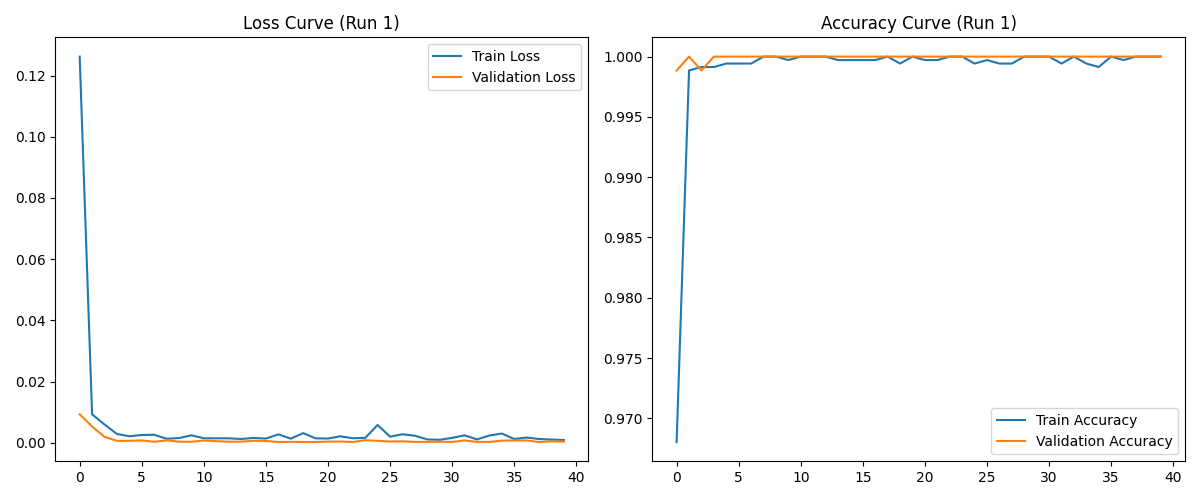
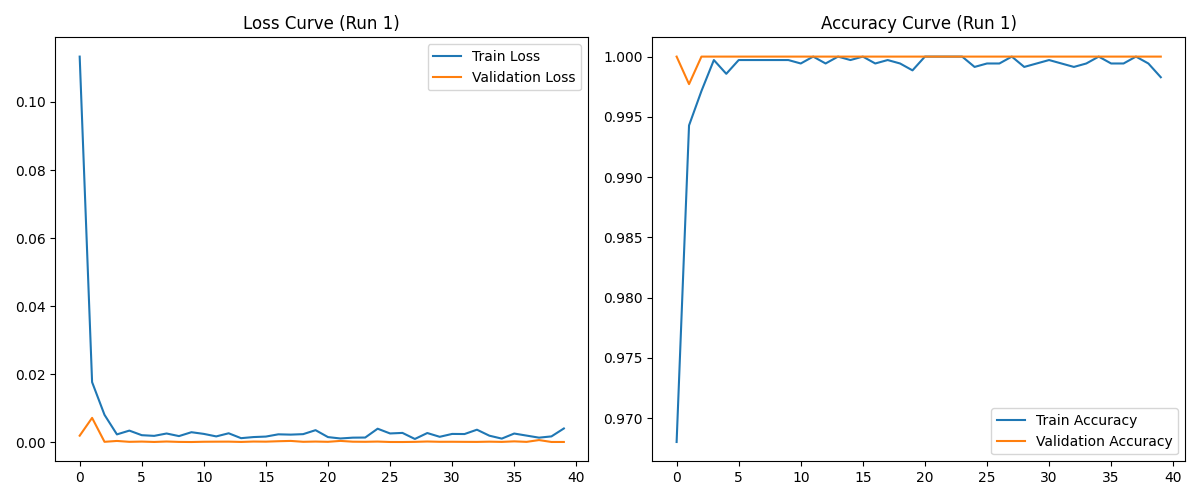
update

diff --git a/Self-Supervised-Learning/main.py b/Self-Supervised-Learning/main.py
@@ -248,14 +248,40 @@ if __name__ == "__main__":
     # 多次运行的主循环
     # ========================================================
     NUM_RUNS = 5
-    all_final_accs = []
+    
+    # Metrics Storage
+    all_rule_accs = []      # Pure Rule-based (CV/ARI) Accuracy on Test Set
+    all_r1_accs = []        # Round 1 Model Accuracy
+    all_final_accs = []     # Round 2 (Final) Model Accuracy
+    
+    all_r1_f1s = []
     all_final_f1s = []
+
+    # Pre-calculate Rule-based Performance on Test Set (One-time)
+    print("\n--- Evaluating Pure Rule-based Performance on Test Set ---")
+    
+    # 提取测试集特征（如果有标签数据量大，这里可能会花点时间）
+    test_features = np.array(Parallel(n_jobs=-1)(
+        delayed(_calculate_features)(X_test[i])
+        for i in tqdm(range(len(X_test)), desc="Test Feat Extraction")
+    ))
+    
+    # 应用规则
+    rule_test_results = np.array([calculate_confidence(f[0], f[1], CV_TH, ARI_TH) for f in test_features])
+    rule_preds = rule_test_results[:, 0] # 0 or 1
+    
+    rule_acc = accuracy_score(y_test, rule_preds)
+    rule_f1 = f1_score(y_test, rule_preds)
+    print(f"Pure Rule-based Result -> Acc: {rule_acc:.4f}, F1: {rule_f1:.4f}")
 
     for run_idx in range(NUM_RUNS):
         current_seed = 42 + run_idx
         print(f"\n\n{'#'*60}")
         print(f"### RUN {run_idx + 1}/{NUM_RUNS} (Seed: {current_seed})")
         print(f"{'#'*60}")
+        
+        # Store Rule Acc (Repeated for consistency across runs structure)
+        all_rule_accs.append(rule_acc)
 
         # ========================================================
         # Part 3：Iterative Training (Round 1: Rule-based)
@@ -263,6 +289,25 @@ if __name__ == "__main__":
         print("\n--- Iterative Round 1 (Rule-based) ---")
         
         model_r1, path_r1, hist_r1 = run_cnn_training(X_train, y_train, "CNN_Step1_RuleBased", seed=current_seed)
+        
+        # Eval Round 1 Model on Test Set
+        model_r1.load_state_dict(torch.load(path_r1, map_location=device, weights_only=True))
+        test_loader = make_loader(X_test, y_test, False)
+        
+        preds_r1, gts_r1 = [], []
+        with torch.no_grad():
+            for x, y in test_loader:
+                x = x.to(device)
+                out = model_r1(x).squeeze()
+                preds_r1.extend((out > 0.5).int().cpu().numpy())
+                gts_r1.extend(y.numpy())
+        
+        acc_r1 = accuracy_score(gts_r1, preds_r1)
+        f1_r1 = f1_score(gts_r1, preds_r1)
+        print(f"Round 1 Model Result -> Acc: {acc_r1:.4f}, F1: {f1_r1:.4f}")
+        
+        all_r1_accs.append(acc_r1)
+        all_r1_f1s.append(f1_r1)
         
         # ========================================================
         # Part 4：Iterative Round 2 (Model-based Refinement)
@@ -373,28 +418,44 @@ if __name__ == "__main__":
     print(f"Final Summary Over {NUM_RUNS} Runs")
     print("========================================================")
     
-    mean_acc = np.mean(all_final_accs)
-    std_acc = np.std(all_final_accs)
-    mean_f1 = np.mean(all_final_f1s)
-    std_f1 = np.std(all_final_f1s)
-
-    print(f"Accuracy: {mean_acc:.4f} (+/- {std_acc:.4f})")
-    print(f"F1-Score: {mean_f1:.4f} (+/- {std_f1:.4f})")
-    print(f"Raw Accs: {all_final_accs}")
+    # Calculate Means & Stds
+    mean_rule_acc, std_rule_acc = np.mean(all_rule_accs), np.std(all_rule_accs)
+    mean_r1_acc, std_r1_acc = np.mean(all_r1_accs), np.std(all_r1_accs)
+    mean_final_acc, std_final_acc = np.mean(all_final_accs), np.std(all_final_accs)
     
+    mean_r1_f1, std_r1_f1 = np.mean(all_r1_f1s), np.std(all_r1_f1s)
+    mean_final_f1, std_final_f1 = np.mean(all_final_f1s), np.std(all_final_f1s)
+
+    print(f"1. Pure Rule-based Acc: {mean_rule_acc:.4f} (fixed)")
+    print(f"2. Round 1 Model Acc:   {mean_r1_acc:.4f} (+/- {std_r1_acc:.4f})")
+    print(f"3. Final Model Acc:     {mean_final_acc:.4f} (+/- {std_final_acc:.4f})")
+
     # Save results to JSON file
     results_data = {
-        "mean_accuracy": float(mean_acc),
-        "std_accuracy": float(std_acc),
-        "mean_f1_score": float(mean_f1),
-        "std_f1_score": float(std_f1),
-        "raw_accuracies": [float(x) for x in all_final_accs],
-        "raw_f1_scores": [float(x) for x in all_final_f1s]
+        "rule_based": {
+            "mean_accuracy": float(mean_rule_acc),
+            "mean_f1_score": float(rule_f1) # rule based is deterministic
+        },
+        "round_1_model": {
+            "mean_accuracy": float(mean_r1_acc),
+            "std_accuracy": float(std_r1_acc),
+            "mean_f1_score": float(mean_r1_f1),
+            "std_f1_score": float(std_r1_f1),
+            "raw_accuracies": [float(x) for x in all_r1_accs]
+        },
+        "final_model": {
+            "mean_accuracy": float(mean_final_acc),
+            "std_accuracy": float(std_final_acc),
+            "mean_f1_score": float(mean_final_f1),
+            "std_f1_score": float(std_final_f1),
+            "raw_accuracies": [float(x) for x in all_final_accs],
+            "raw_f1_scores": [float(x) for x in all_final_f1s]
+        }
     }
     
     json_path = os.path.join("results", "final_stats.json")
     with open(json_path, "w") as f:
         json.dump(results_data, f, indent=4)
         
-    print(f"Results saved to {json_path}")
+    print(f"Detailed results saved to {json_path}")
 
